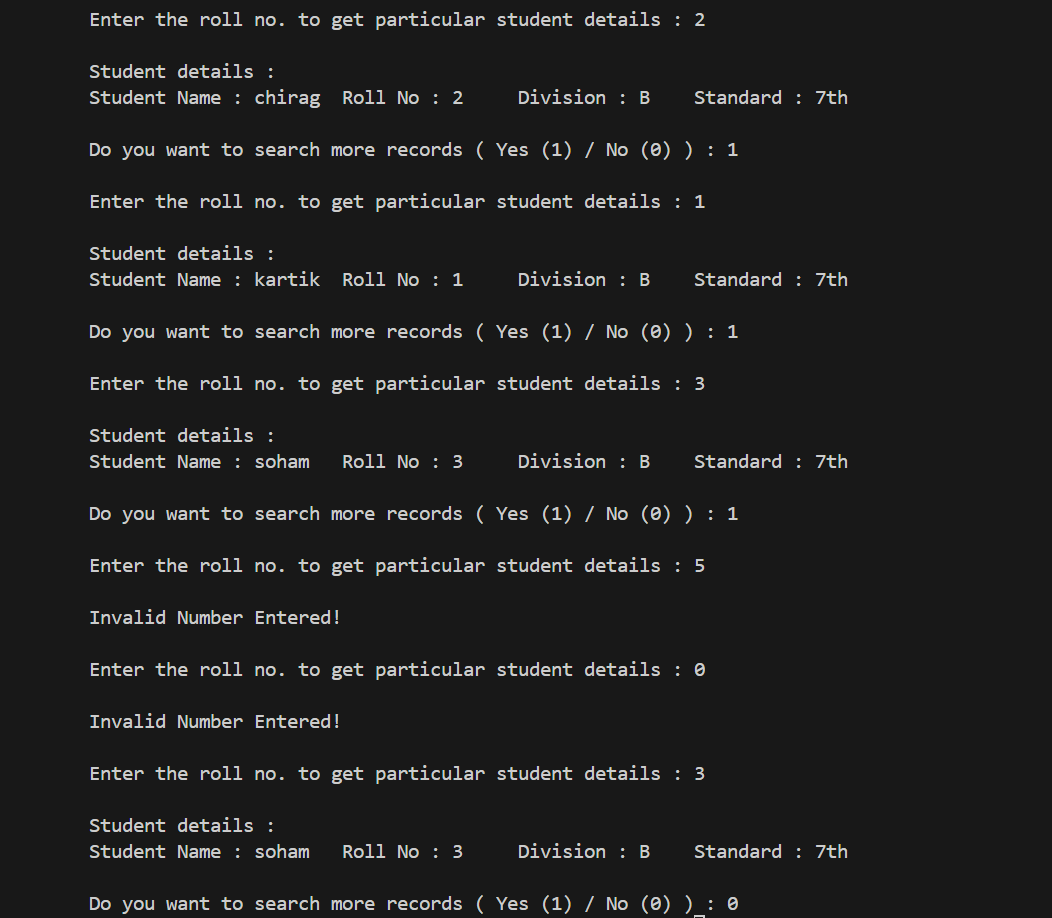
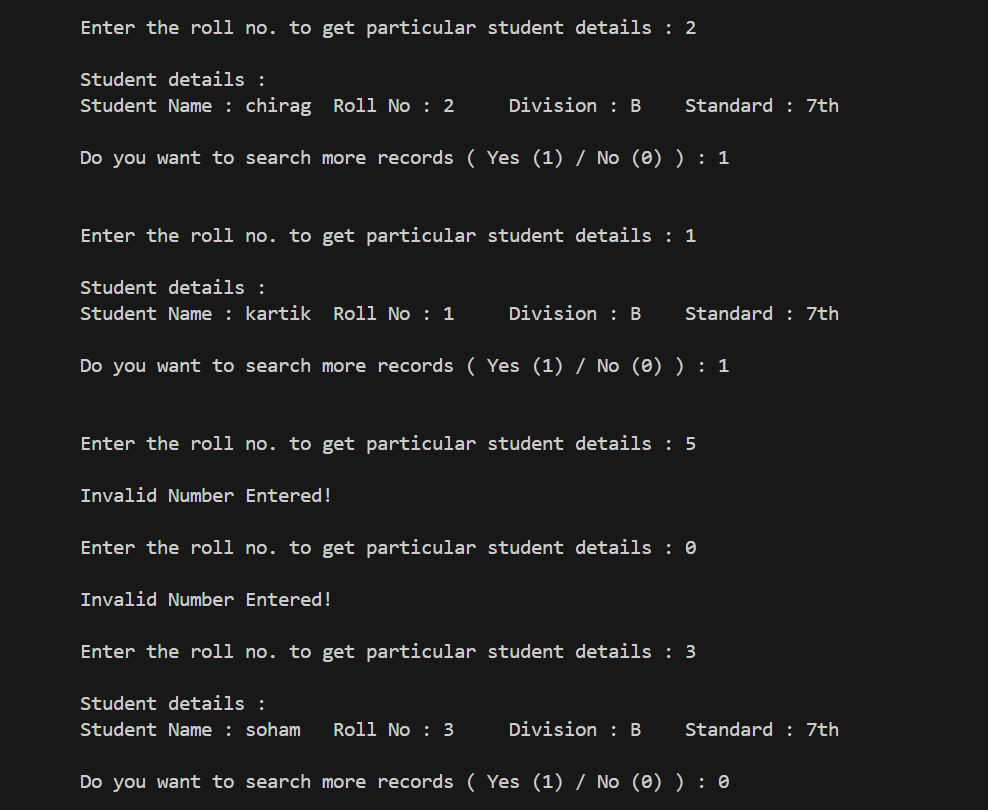
Function Assignment No. 6

diff --git a/01-C Revision/03-Functions/06-Assignment/A-6.c b/01-C Revision/03-Functions/06-Assignment/A-6.c
@@ -27,22 +27,27 @@ void studentDetails(Student*,int);
 
 int main() 
 {
-    int n;
-    printf("\n\tEnter the number of students : ");
-    scanf("%d", &n); 
-    
-    Student *arr = malloc(sizeof(Student)*n); // *arr same as arr[]
+    int i = 0,ch,size = 2;
+    Student *arr = NULL;
+    arr = malloc(sizeof(Student));
     if (arr == NULL) {
-        printf("Memory Allocation Failed!");
+        printf("\n\t Memory Allocation Failed!");
         exit(1);
     }
 
-    for (int i = 0 ; i < n ; i++)
-    {   
-        printf("\n\tGive the Student %d details : \n",i+1);
+    while (ch) {
+        if (i > 0) {
+            arr = (Student*)realloc(arr,size*sizeof(Student));
+            if (arr == NULL) {
+                printf("\n\t Memory Allocation Failed!");
+                exit(1);
+            }
+        }
+
+        printf("\n\tGive Student %d details : \n",i+1);
 
         printf("\n\tEnter Student Name : ");
-        getchar();
+        if (i > 0)  getchar();
         fgets((arr + i) -> name,20,stdin);
         (arr + i) -> name[strcspn((arr + i) -> name,"\n")] = '\0';
     
@@ -54,9 +59,17 @@ int main()
 
         printf("\tEnter Student Standard : ");
         scanf("%s",(arr + i) -> std);
+
+        printf("\n\t Do you want to add more details of student ( Yes(1) / No(0) ) : ");
+        scanf("%d",&ch); 
+        printf("\n");
+
+        i++,size++;
     }
 
-    studentDetails(arr,n);
+    printf("\n\t Total Number Of Student Details Entered : %d\n\n",i);
+
+    studentDetails(arr,i);
 
     free(arr);
     arr = NULL;
@@ -80,6 +93,7 @@ void studentDetails(Student *arr,int n) {
     
             printf("\n\t Do you want to search more records ( Yes (1) / No (0) ) : ");
             scanf("%d",&ch);
+            printf("\n");
 
             if (ch == 1) continue;
             else    break;
@@ -92,28 +106,38 @@ void studentDetails(Student *arr,int n) {
 
 /*
     Output ->         
-                Enter the number of students : 3
-
-                Give the Student 1 details : 
+                Give Student 1 details : 
 
                 Enter Student Name : kartik
                 Enter Student Roll No. : 1
                 Enter Student Division : B
                 Enter Student Standard : 7th
 
-                Give the Student 2 details : 
+                Do you want to add more details of student ( Yes(1) / No(0) ) : 1
+
+
+                Give Student 2 details : 
 
                 Enter Student Name : chirag
                 Enter Student Roll No. : 2
                 Enter Student Division : B
                 Enter Student Standard : 7th
 
-                Give the Student 3 details : 
+                Do you want to add more details of student ( Yes(1) / No(0) ) : 1
+
+
+                Give Student 3 details :
 
                 Enter Student Name : soham
                 Enter Student Roll No. : 3
                 Enter Student Division : B
                 Enter Student Standard : 7th
+
+                Do you want to add more details of student ( Yes(1) / No(0) ) : 0
+
+
+                Total Number Of Student Details Entered : 3
+
 
                 Enter the roll no. to get particular student details : 2
 
@@ -122,6 +146,7 @@ void studentDetails(Student *arr,int n) {
 
                 Do you want to search more records ( Yes (1) / No (0) ) : 1
 
+
                 Enter the roll no. to get particular student details : 1
 
                 Student details :
@@ -129,12 +154,6 @@ void studentDetails(Student *arr,int n) {
 
                 Do you want to search more records ( Yes (1) / No (0) ) : 1
 
-                Enter the roll no. to get particular student details : 3
-
-                Student details :
-                Student Name : soham   Roll No : 3     Division : B    Standard : 7th
-
-                Do you want to search more records ( Yes (1) / No (0) ) : 1
 
                 Enter the roll no. to get particular student details : 5
 
@@ -149,5 +168,5 @@ void studentDetails(Student *arr,int n) {
                 Student details :
                 Student Name : soham   Roll No : 3     Division : B    Standard : 7th
 
-                Do you want to search more records ( Yes (1) / No (0) ) : 0                       
+                Do you want to search more records ( Yes (1) / No (0) ) : 0                    
 */
